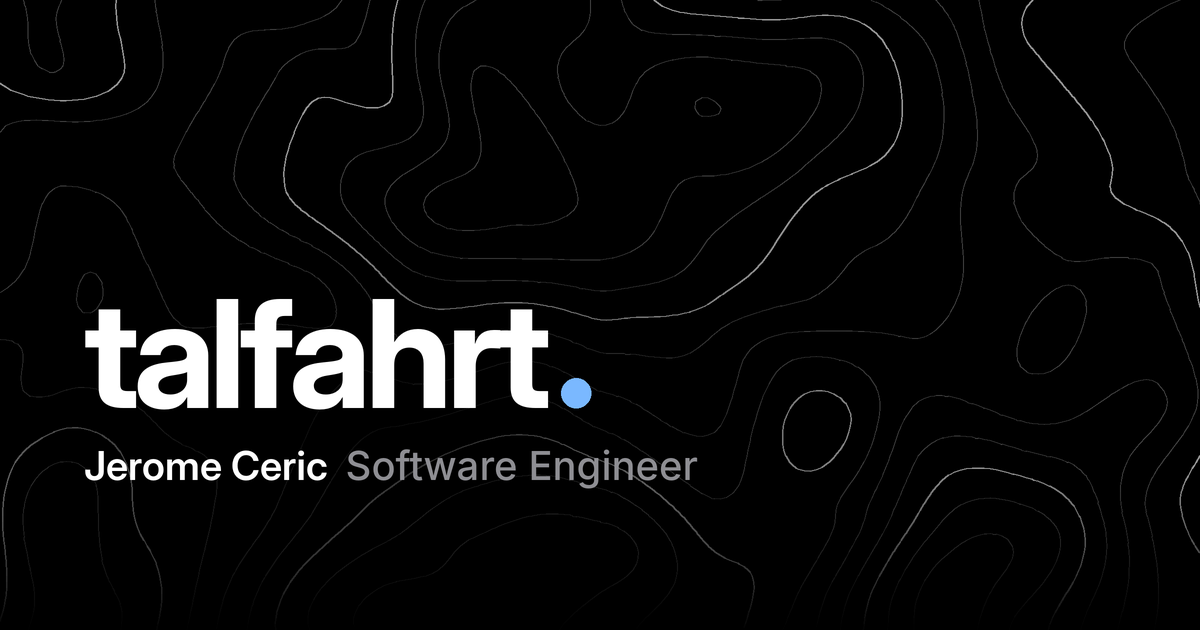
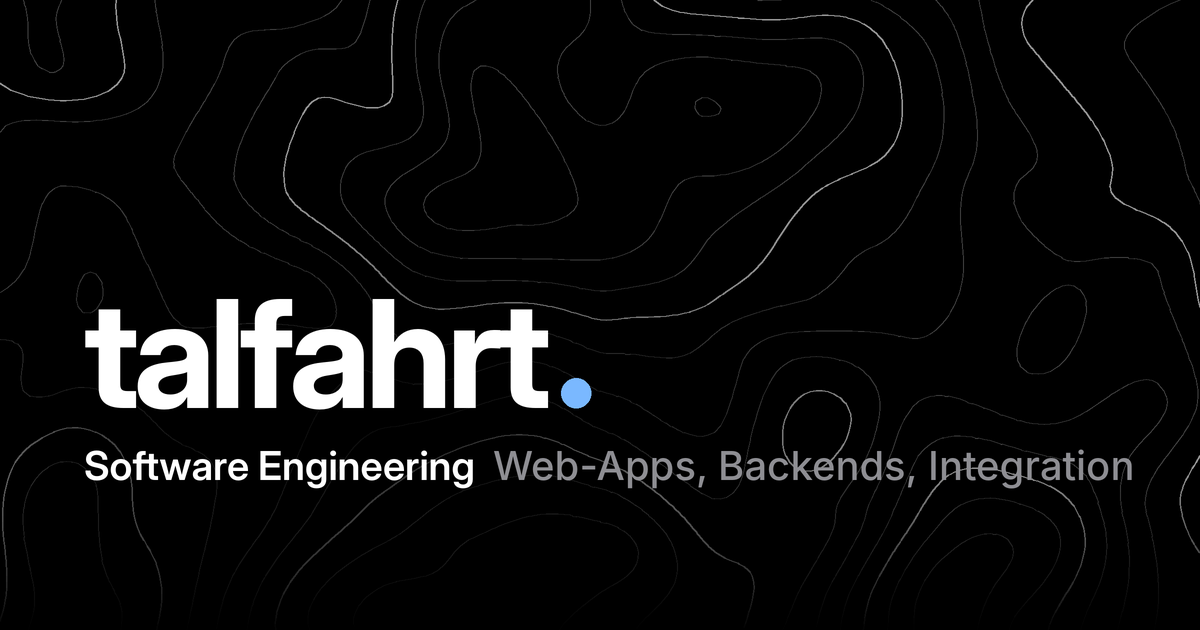
Make the site brand-only, enable Pages from the workflow
Claude-Session: https://claude.ai/code/session_014J5gUJpWDmJRuDuVEtAzUX

Changed region(s): [[0.0617, 0.6937, 0.9558, 0.7841]]

diff --git a/src/styles.css b/src/styles.css
@@ -275,23 +275,18 @@ html.no-intro .intro { display: none; }
   margin-left: -.04em;
 }
 html:not(.no-intro):not(.landed) .hero__mark { opacity: 0; }
-.hero__body { margin-top: clamp(20px, 3vh, 32px); max-width: 60ch; }
+.hero__body { margin-top: clamp(20px, 3vh, 32px); max-width: 68ch; }
 html:not(.no-intro) .hero__body { opacity: 0; }
 html.landed .hero__body, html.no-intro .hero__body { opacity: 1; animation: rise .7s var(--ease) both; }
 html.no-intro .hero__body { animation: none; }
 @keyframes rise { from { opacity: 0; transform: translateY(14px); } to { opacity: 1; transform: none; } }
-.hero__who {
-  display: flex;
-  flex-wrap: wrap;
-  gap: 6px 14px;
-  align-items: baseline;
+.hero__claim {
   font-family: var(--font-display);
-  font-size: clamp(24px, 3vw, 36px);
+  font-size: clamp(22px, 2.6vw, 32px);
   font-weight: 650;
   letter-spacing: -.025em;
-  line-height: 1.15;
+  line-height: 1.2;
 }
-.hero__who span { color: var(--muted); font-weight: 500; }
 .hero__lede {
   margin-top: 14px;
   font-size: clamp(17px, 1.5vw, 20px);

diff --git a/README.md b/README.md
@@ -1,13 +1,13 @@
 # talfahrt.dev
 
-Personal site of Jerome Ceric: projects, software solutions, profile and contact, in German (`/`) and English (`/en/`).
+Site of the talfahrt brand: projects, software solutions, about and contact, in German (`/`) and English (`/en/`).
 
 Static HTML with inlined CSS, one small script for the intro, the command palette and the theme, and a WebGL2 contour field behind the hero. No framework, no dependencies, no tracking.
 
 ## Structure
 
 ```
-content/site.json   brand, owner, email, links, projects, imprint address
+content/site.json   brand, location, email, links, projects, imprint
 content/de.json     German copy
 content/en.json     English copy
 src/page.mjs        page templates (home, imprint, 404)
@@ -54,4 +54,4 @@ Repository settings → Pages: source "GitHub Actions", custom domain `talfahrt.
 
 ## Search and AI discovery
 
-Each page carries canonical and hreflang links, Open Graph and Twitter cards, and JSON-LD for the site, the person, the organisation and every app. `robots.txt` allows search and AI crawlers explicitly, `sitemap.xml` lists all pages, and `llms.txt` summarises the site in plain Markdown.
+Each page carries canonical and hreflang links, Open Graph and Twitter cards, and JSON-LD for the site, the organisation and every app. `robots.txt` allows search and AI crawlers explicitly, `sitemap.xml` lists all pages, and `llms.txt` summarises the site in plain Markdown.
